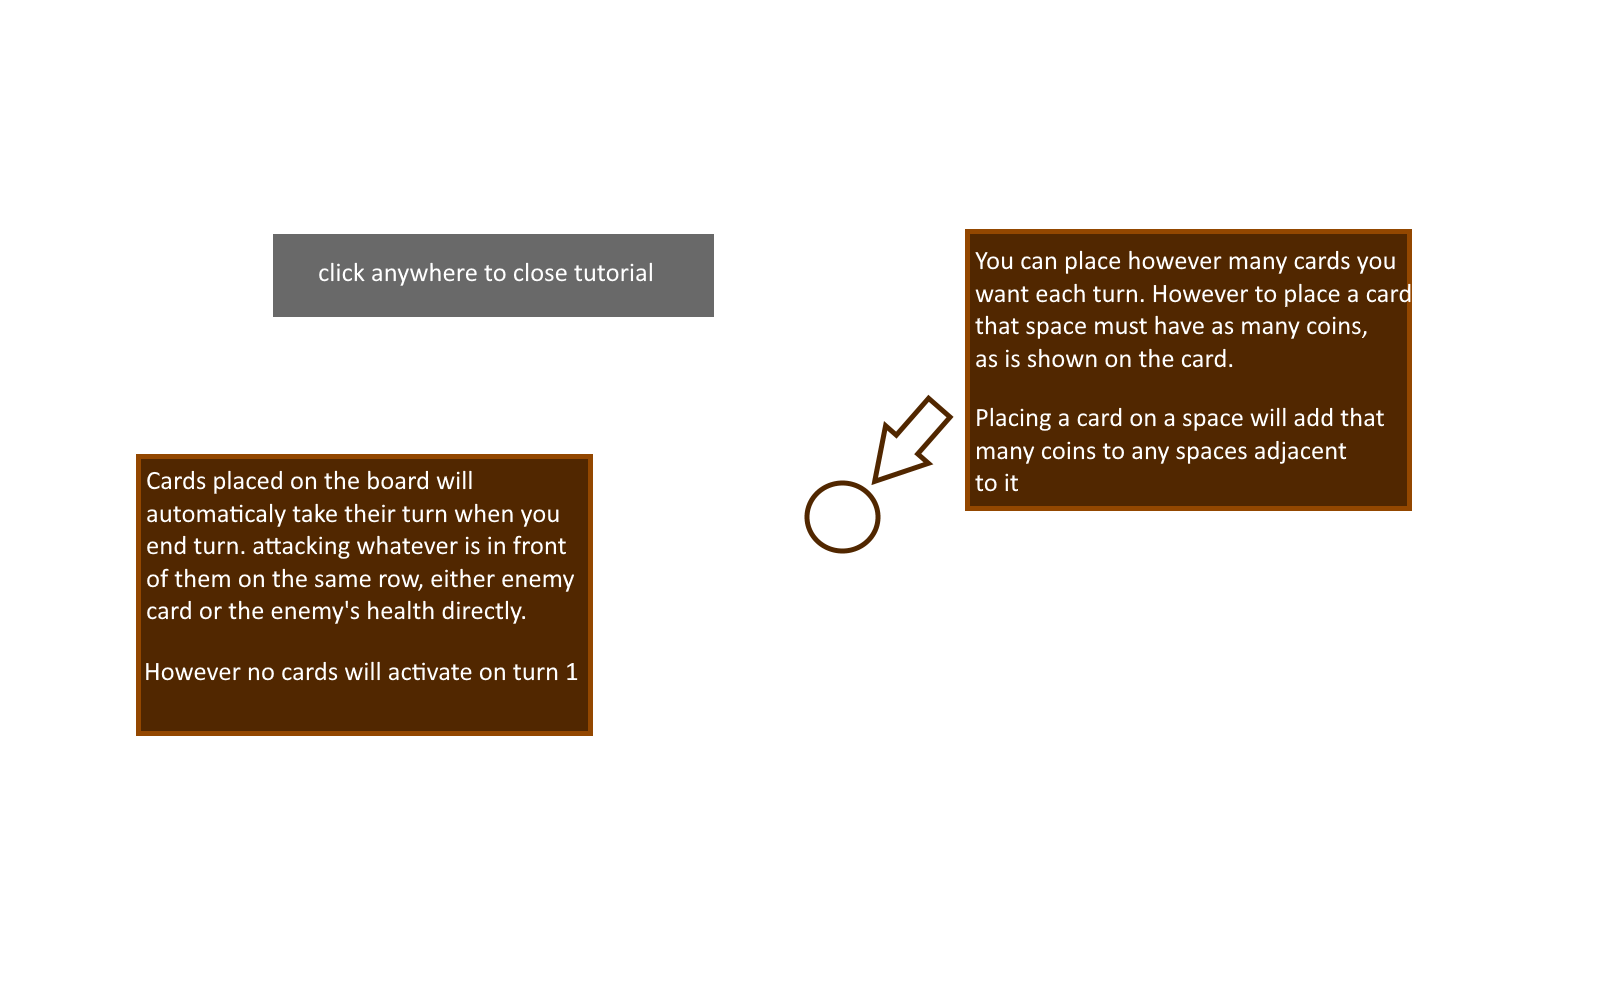
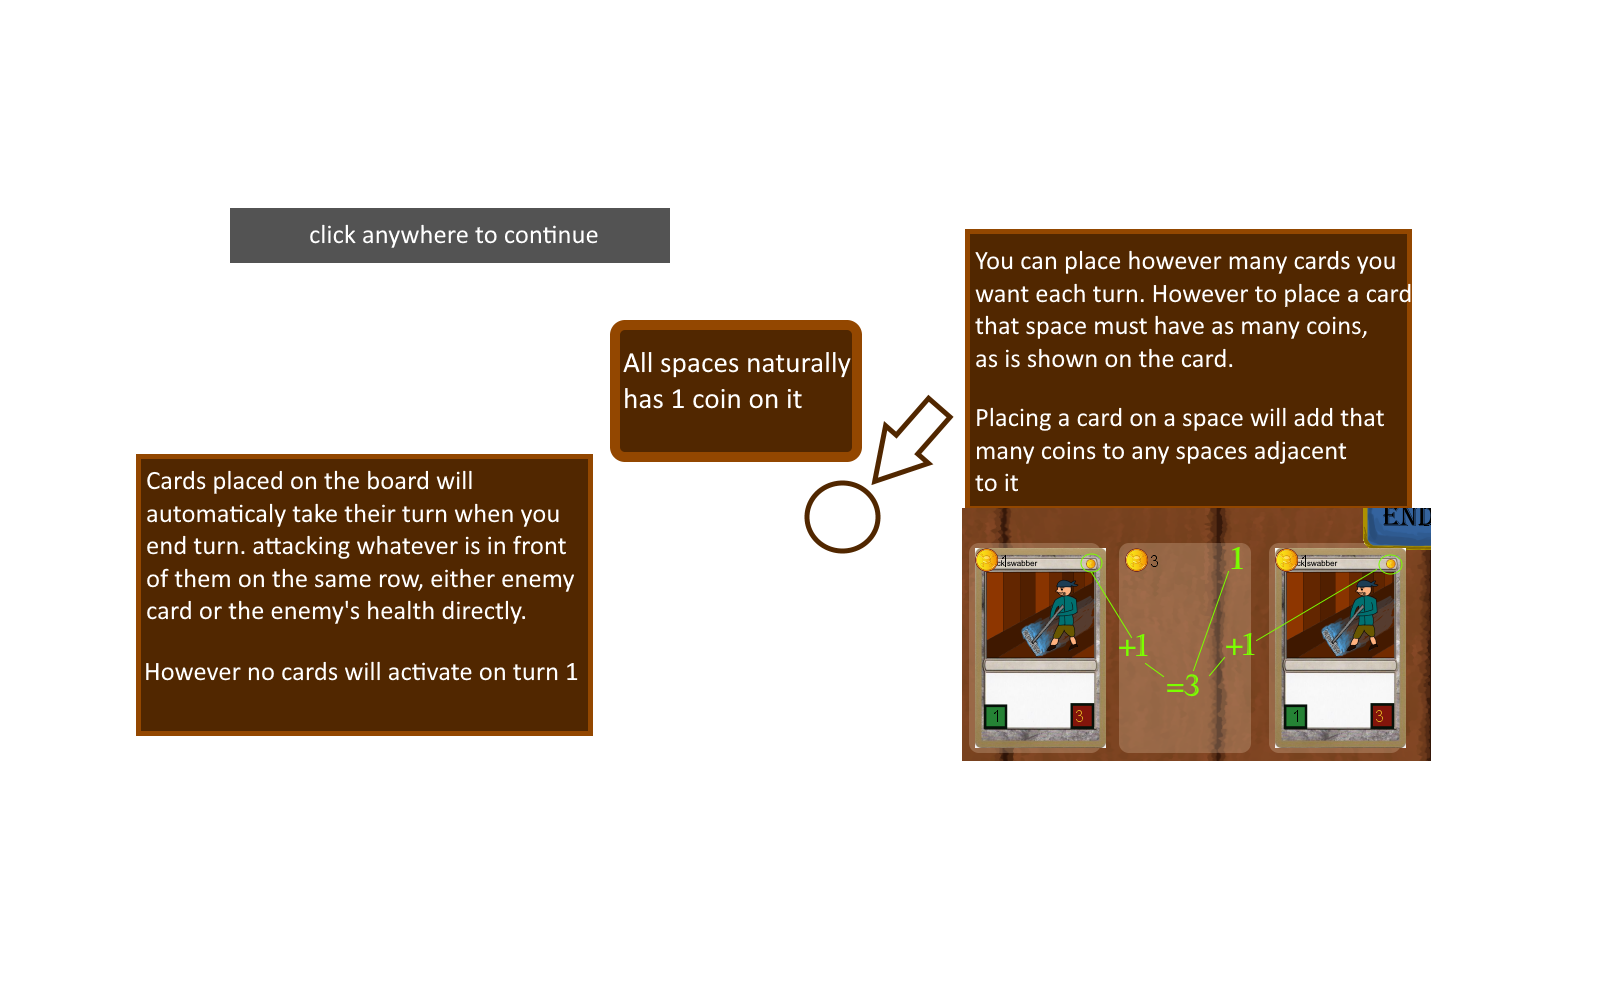
Fixed crash if enemy has too many cards in hand, and added tutorial

Changed region(s): [[0.5938, 0.496, 0.9062, 0.775], [0.125, 0.186, 0.5625, 0.465]]

diff --git a/Database/CardRepository.cs b/Database/CardRepository.cs
@@ -8,21 +8,28 @@ namespace PriateCardGame.Database
 {
     public class CardRepository
     {
+        //Provider is used to determine which database file the tables go in
         private readonly SQLiteDatabaseProvider provider;
+        //The mapper is used to read from the database file and convert it to useable code for the game
         private readonly ICardMapper mapper;
+        //Connection is used to make a connection to the database
         private IDbConnection connection;
+        //The constructor for the Repository is made so that you can deside which database file you want
+        //And which mapper or "converter" you want for that repository
         public CardRepository(SQLiteDatabaseProvider provider, ICardMapper mapper)
         {
             this.provider = provider;
             this.mapper = mapper;
         }
-
+        //This makes the table if it doesn't exist
+        //With a cardID as primary key, "Name" which is a string which is also used to determine which card it is
+        //And storageState which is used to determine whetever it's in the deck or stage
         private void CreateDatabaseTables()
         {
             var cmd = new SQLiteCommand($"CREATE TABLE IF NOT EXISTS Cards (cardID INTEGER PRIMARY KEY, Name STRING,StorageState STRING);", (SQLiteConnection)connection);
             cmd.ExecuteNonQuery();
         }
-
+        //This is used to open a connection to the repository
         public void Open()
         {
             if (connection == null)
@@ -30,15 +37,15 @@ namespace PriateCardGame.Database
                 connection = provider.CreateConnection();
             }
             connection.Open();
-
+            
             CreateDatabaseTables();
         }
-
+        //This closes connection to the repository
         public void Close()
         {
             connection.Close();
         }
-
+        //This finds any card in the repository that has the storageState "deck" to find the players deck
         public List<CardBase> FindDeck()
         {
             var cmd = new SQLiteCommand($"Select * from Cards where StorageState = '{GameWorld.Deck}'",(SQLiteConnection)connection);
@@ -47,7 +54,7 @@ namespace PriateCardGame.Database
             var result = mapper.MapCardsFromReader(reader);
             return result;
         }
-
+        //This finds all cards in the repository, both in storage and deck
         public List<CardBase> FindAllCards()
         {
             var cmd = new SQLiteCommand($"Select * from Cards", (SQLiteConnection)connection);
@@ -56,19 +63,21 @@ namespace PriateCardGame.Database
             var result = mapper.MapCardsFromReader(reader);
             return result;
         }
-
+        //This will insert a card into the database with the storageState deck
+        //said another way:This will add a card to a players deck
         public void AddCard(string cardName)
         {
             var cmd = new SQLiteCommand($"Insert into Cards (Name,StorageState) VALUES('{cardName}', '{GameWorld.Deck}')",(SQLiteConnection)connection);
             cmd.ExecuteNonQuery();
         }
-
+        //This will add a card to the storage, so the player can use it for later
         public void AddCardToStorage(string cardName)
         {
             var cmd = new SQLiteCommand($"Insert into Cards (Name,StorageState) VALUES('{cardName}', '{GameWorld.Storage}')", (SQLiteConnection)connection);
             cmd.ExecuteNonQuery();
         }
-
+        //This will change a card from being in the storage to the deck
+        //It checks the database with the cards name and updates the first card found to the deck
         public void AddToDeck(string cardName)
         {
             //Update card set storageState = "deck"  where cardID IN(select cardID from card where storageState = "storage" LIMIT 1)
@@ -77,19 +86,20 @@ namespace PriateCardGame.Database
             cmd.ExecuteNonQuery();
         }
 
-
+        //This will remove all cards from the table
         public void DropTable()
         {
             var cmd = new SQLiteCommand($"DROP TABLE Cards", (SQLiteConnection)connection);
             cmd.ExecuteNonQuery();
         }
-        
+        //This will remove a card from the deck and place it in the storage
         public void removeCard(string cardName)
         {
             var cmd = new SQLiteCommand($"Update Cards set StorageState = '{GameWorld.Storage}' where cardID IN(select cardID from cards where Name ='{cardName}' and StorageState = '{GameWorld.Deck}' LIMIT 1)", (SQLiteConnection)connection);
             cmd.ExecuteNonQuery();
         }
-
+        //This will find all cards in the table with the same name
+        //Used to show a number to the user of how many of that card they own in the storage
         public List<CardBase> FindAllCardsInStorageWithThisName(string name)
         {
             var cmd = new SQLiteCommand($"Select * from Cards where Name = '{name}' and StorageState = '{GameWorld.Storage}'", (SQLiteConnection)connection);
@@ -97,7 +107,8 @@ namespace PriateCardGame.Database
             var result = mapper.MapCardsFromReader(reader);
             return result;
         }
-
+        //This will find all cards in the table with the same name
+        //Used to show a number to the user of how many of that card they own in the deck
         public List<CardBase> FindAllCardsInDeckWithThisName(string name)
         {
             var cmd = new SQLiteCommand($"Select * from Cards where Name = '{name}' and StorageState = '{GameWorld.Deck}'", (SQLiteConnection)connection);

diff --git a/GameWorld.cs b/GameWorld.cs
@@ -262,6 +262,10 @@ namespace PriateCardGame
                 {
                     tutorialBackground = Content.Load<Texture2D>("Tutorial/Tutorial4");
                 }
+                if (tutorial == 6)
+                {
+                    tutorialBackground = Content.Load<Texture2D>("Tutorial/Tutorial5");
+                }
 
                 foreach (UI item in WinOrLoseScreenList)
                 {
@@ -908,6 +912,12 @@ namespace PriateCardGame
             if (mouseState.LeftButton == ButtonState.Pressed && tutorial == 5 && bPress == false)
             {
                 tutorial = 6;
+                LoadContent();
+                bPress = true;
+            }
+            if (mouseState.LeftButton == ButtonState.Pressed && tutorial == 6 && bPress == false)
+            {
+                tutorial = 7;
             }
 
 
@@ -1096,6 +1106,7 @@ namespace PriateCardGame
             _spriteBatch.Draw(deckBuildingBackground, new Vector2(0, 0), Color.White);
 
             _spriteBatch.DrawString(font, $"Deck: {PlayerDeck.Count}/30", new Vector2(980 , 750), Color.White);
+            _spriteBatch.DrawString(font, $"Use Scrollwheel to scroll through the deck", new Vector2(980, 770), Color.White);
             _spriteBatch.DrawString(font, $"Page: {pageNumber+1}/3", new Vector2(375, 650), Color.White);
 
             var max = 12 + ScrollValue;
@@ -1220,7 +1231,7 @@ namespace PriateCardGame
 
             }
 
-            if (tutorial == 4 || tutorial == 5)
+            if (tutorial == 4 || tutorial == 5 || tutorial == 6)
             {
                 _spriteBatch.Draw(tutorialBackground, new Vector2(0, 0), Color.White);
             }

diff --git a/Database/CardMapper.cs b/Database/CardMapper.cs
@@ -8,15 +8,18 @@ namespace PriateCardGame.Database
 {
     public class CardMapper : ICardMapper
     {
+        //This is used to read the rows from the database concerning cards
         public List<CardBase> MapCardsFromReader(SQLiteDataReader reader)
         {
             var result = new List<CardBase>();
             while (reader.Read())
             {
+                //We get assign the different columns to a variable so that we can create a card out of those variables
+                //The number in the paranthesis describes which coloumn it takes from
                 var cardID = reader.GetInt32(0);
                 var Name = reader.GetString(1);
                 var storageState = reader.GetString(2);
-
+                //The name is then used to determine which card to make with a switch statement
                 switch (Name)
                 {
                     case "Captain":

diff --git a/Enemy.cs b/Enemy.cs
@@ -104,8 +104,8 @@ namespace PriateCardGame
         {
             if (EnemyHand.Count >=5)
             {
-                EnemyHand.RemoveAt(5);
                 EnemyHand.RemoveAt(4);
+                EnemyHand.RemoveAt(3);
             }
             Random rnd = new Random();
             if (GameWorld.turn <= 2)
